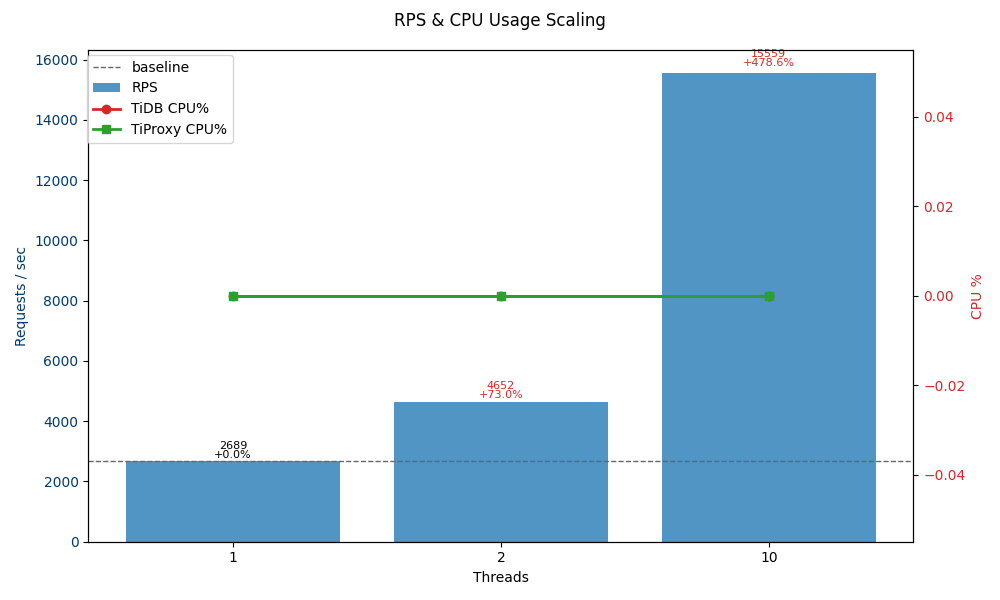
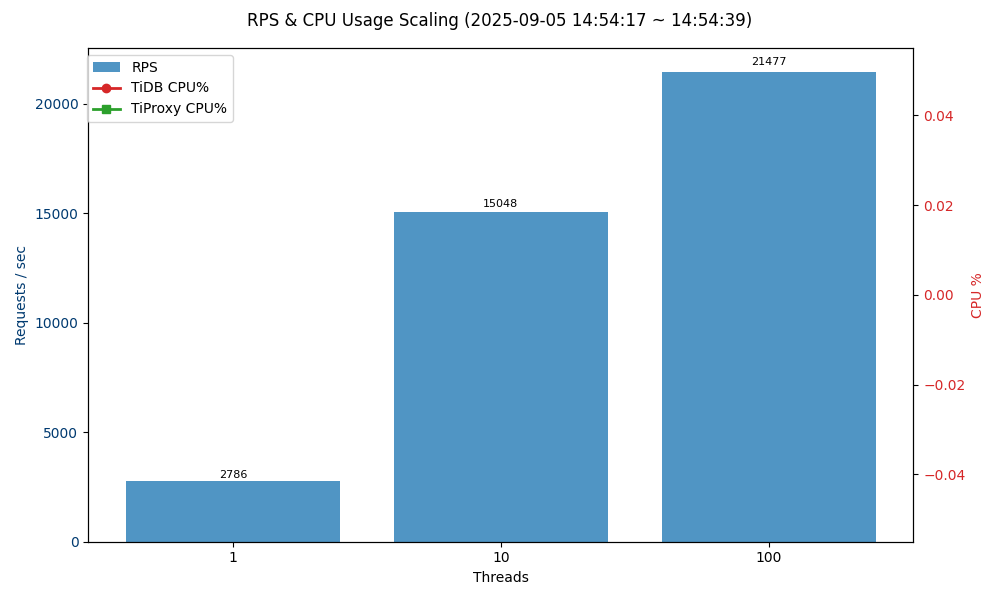
update

diff --git a/tidb/benchmark_#2/plot_rps_bar.py b/tidb/benchmark_#2/plot_rps_bar.py
@@ -31,25 +31,12 @@ ax1.set_xlabel("Threads")
 ax1.set_ylabel("Requests / sec", color="#003A70")
 ax1.tick_params(axis="y", labelcolor="#003A70")
 
-# Baseline: choose first thread >= min threshold (e.g.  threads sorted, commonly 1 or 100). Prefer 100 if present
-baseline_val = None
-if 100 in set(threads):
-	baseline_val = float(df.loc[df["Threads"]==100, "RPS"].iloc[0])
-elif len(rps):
-	baseline_val = float(rps.iloc[0])
-if baseline_val:
-	ax1.axhline(baseline_val, color="#666", linestyle="--", linewidth=1, label=("100-thread baseline" if 100 in set(threads) else "baseline"))
+## (移除 ScaleEff 與 baseline，僅保留純 RPS 顯示)
 
-# Annotate each bar with RPS and delta vs baseline
-for b, t, val in zip(bars, threads, rps):
-	if baseline_val and baseline_val > 0:
-		delta_pct = (val - baseline_val) / baseline_val * 100.0
-		delta_str = f"{delta_pct:+.1f}%" if (t != 100 or baseline_val != val) else "+0.0%"
-		color = "#d62728" if delta_pct > 0 else ("#2ca02c" if delta_pct < 0 else "#000000")
-		ax1.text(b.get_x()+b.get_width()/2, b.get_height()*1.01, f"{val:.0f}\n{delta_str}",
-				 ha='center', va='bottom', fontsize=8, color=color, linespacing=0.9)
-	else:
-		ax1.text(b.get_x()+b.get_width()/2, b.get_height()*1.01, f"{val:.0f}", ha='center', va='bottom', fontsize=8)
+# 標註每個 bar 的 RPS 數字（移除 baseline / delta）
+for b, val in zip(bars, rps):
+	ax1.text(b.get_x()+b.get_width()/2, b.get_height()*1.01, f"{val:.0f}",
+			 ha='center', va='bottom', fontsize=8, color="#000000")
 
 lines, labels = ax1.get_legend_handles_labels()
 
@@ -63,7 +50,22 @@ if "TiProxyCPU%" in df.columns:
 ax2.set_ylabel("CPU %", color="#d62728")
 ax2.tick_params(axis="y", labelcolor="#d62728")
 
-fig.suptitle("RPS & CPU Usage Scaling")
+# 動態標題：若存在 Timestamp 欄位，加入起訖時間
+title = "RPS & CPU Usage Scaling"
+if 'Timestamp' in df.columns and len(df['Timestamp']) > 0:
+	try:
+		ts = pd.to_datetime(df['Timestamp'])
+		start_ts = ts.iloc[0]
+		end_ts = ts.iloc[-1]
+		if start_ts.date() == end_ts.date():
+			# 同一天：顯示 日期 與 時間區間
+			title += f" ({start_ts.strftime('%Y-%m-%d')} {start_ts.strftime('%H:%M:%S')} ~ {end_ts.strftime('%H:%M:%S')})"
+		else:
+			# 不同天：各自完整時間
+			title += f" ({start_ts.strftime('%Y-%m-%d %H:%M:%S')} ~ {end_ts.strftime('%Y-%m-%d %H:%M:%S')})"
+	except Exception:
+		pass
+fig.suptitle(title)
 if lines:
 	fig.legend(lines, labels, loc="upper left", bbox_to_anchor=(0.08,0.92))
 
